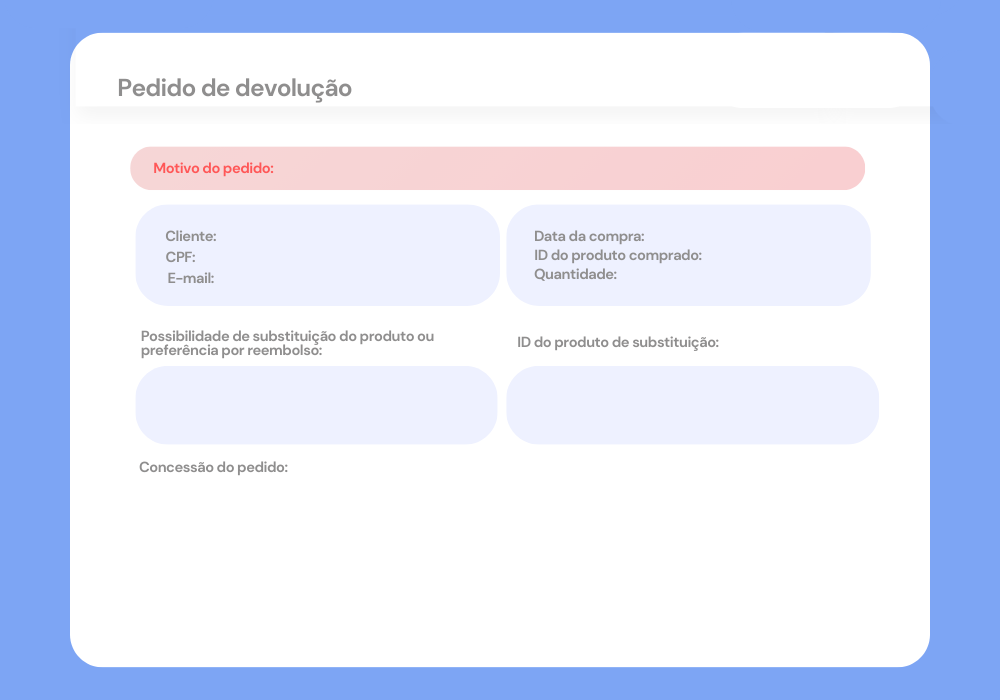
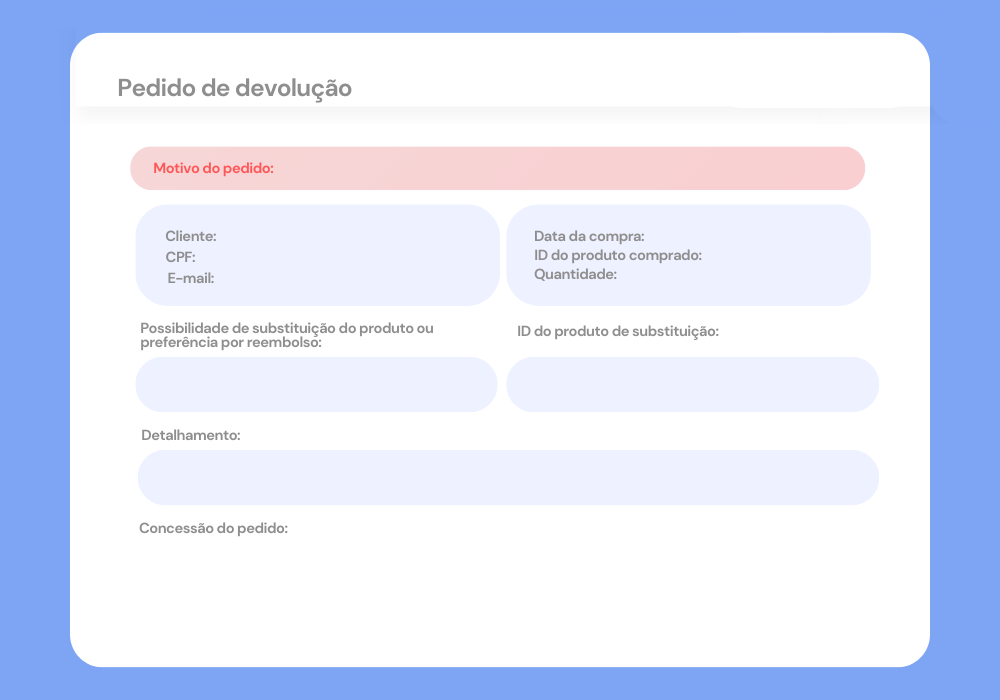
Empresa concede ou nega devolução: feita.

diff --git a/controller/ControllerGeral.java b/controller/ControllerGeral.java
@@ -336,7 +336,19 @@ public class ControllerGeral implements Initializable {
     private RadioButton opcaoDevolucaoSubsituicao;
 
     @FXML
+    private RadioButton opcaoDevolucaoNegar;
+
+    @FXML
     private Button botaoDevolucaoConcedidaEnviada;
+
+    @FXML
+    private TextArea detalhamentoDevolucaoTextArea;
+
+    @FXML
+    private ImageView sucessoConcederDevolucao;
+
+    @FXML
+    private ImageView negacaoConcederDevolucao;
 
     ClienteController clienteController = new ClienteController();
     EmpresaController empresaController = new EmpresaController();
@@ -1052,11 +1064,16 @@ public class ControllerGeral implements Initializable {
 
         opcaoDevolucaoReembolso.setVisible(true);
         opcaoDevolucaoSubsituicao.setVisible(true);
+        opcaoDevolucaoNegar.setVisible(true);
+        opcaoDevolucaoNegar.toFront();
         opcaoDevolucaoReembolso.toFront();
         opcaoDevolucaoSubsituicao.toFront();
 
         botaoDevolucaoConcedidaEnviada.setVisible(true);
         botaoDevolucaoConcedidaEnviada.toFront();
+
+        detalhamentoDevolucaoTextArea.setVisible(true);
+        detalhamentoDevolucaoTextArea.toFront();
 
         esconderElementosDentroDoLogin();
 
@@ -1072,17 +1089,19 @@ public class ControllerGeral implements Initializable {
         idProdutoDevolucaoLabel.setText("" + devolucao.getProdutoId());
         quantidadeProdutoDevolucaoLabel.setText("" + devolucao.getQuantidade());
 
-        substituicaoReembolsoDevolucaoTextArea.setText(devolucao.getJusticativa());
+        substituicaoReembolsoDevolucaoTextArea.setText(devolucao.getJustificativa());
         IDSubstituicaoDevolucaoTextArea.setText(String.valueOf(devolucao.getIdSubstituicao()));
+        detalhamentoDevolucaoTextArea.setText("" + devolucao.getDescricao());
 
         logOutSymbol.setVisible(false);
 
         botaoDevolucaoConcedidaEnviada.setOnAction(event -> {
-            if (opcaoDevolucaoReembolso.isSelected() && opcaoDevolucaoSubsituicao.isSelected()) {
+            if (opcaoDevolucaoReembolso.isSelected() && opcaoDevolucaoSubsituicao.isSelected()
+                    && opcaoDevolucaoNegar.isSelected()) {
                 Alert alert = new Alert(Alert.AlertType.ERROR);
                 alert.setTitle("Erro");
                 alert.setHeaderText(null);
-                alert.setContentText("Por favor, selecione apenas uma opção: Reembolso ou Substituição.");
+                alert.setContentText("Por favor, selecione apenas uma opção: Negacao, Reembolso ou Substituicao.");
                 alert.showAndWait();
             } else if (opcaoDevolucaoReembolso.isSelected()) {
                 devolucao.setStatus(StatusDevolucao.APROVADO);
@@ -1091,7 +1110,7 @@ public class ControllerGeral implements Initializable {
                 if (empresa != null) {
                     empresa.atualizarDevolucao(devolucao);
                     limparECamposDevolucao();
-                    fadeOutTransition(sucessoEnvioReclamacao);
+                    fadeOutTransition(sucessoConcederDevolucao);
                     concederDevolucaoBackground.setVisible(false);
                     mostrarHomeEmpresa();
                 }
@@ -1102,7 +1121,18 @@ public class ControllerGeral implements Initializable {
                 if (empresa != null) {
                     empresa.atualizarDevolucao(devolucao);
                     limparECamposDevolucao();
-                    fadeOutTransition(sucessoEnvioReclamacao);
+                    fadeOutTransition(sucessoConcederDevolucao);
+                    concederDevolucaoBackground.setVisible(false);
+                    mostrarHomeEmpresa();
+                }
+            } else if (opcaoDevolucaoNegar.isSelected()) {
+                devolucao.setStatus(StatusDevolucao.NEGADO);
+                System.out.println("Opção Negação selecionada.");
+                Empresa empresa = Empresa.buscarEmpresaPorId(devolucao.getEmpresaId());
+                if (empresa != null) {
+                    empresa.atualizarDevolucao(devolucao);
+                    limparECamposDevolucao();
+                    fadeOutTransition(negacaoConcederDevolucao);
                     concederDevolucaoBackground.setVisible(false);
                     mostrarHomeEmpresa();
                 }
@@ -1341,6 +1371,9 @@ public class ControllerGeral implements Initializable {
     }
 
     private void limparECamposDevolucao() {
+        detalhamentoDevolucaoTextArea.setVisible(false);
+        detalhamentoDevolucaoTextArea.setText("");
+        opcaoDevolucaoNegar.setVisible(false);
         motivoDevolucaoLabel.setText("");
         nomeClienteDevolucaoLabel.setText("");
         cpfClienteDevolucaoLabel.setText("");
@@ -1363,6 +1396,9 @@ public class ControllerGeral implements Initializable {
         opcaoDevolucaoReembolso.setVisible(false);
         opcaoDevolucaoSubsituicao.setVisible(false);
         botaoDevolucaoConcedidaEnviada.setVisible(false);
+        opcaoDevolucaoNegar.setSelected(false);
+        opcaoDevolucaoReembolso.setSelected(false);
+        opcaoDevolucaoSubsituicao.setSelected(false);
     }
 
     @FXML
@@ -1539,8 +1575,10 @@ public class ControllerGeral implements Initializable {
         emailClienteDevolucaoLabel.setVisible(false);
         dataCompraDevolucaoLabel.setVisible(false);
         idProdutoDevolucaoLabel.setVisible(false);
+        opcaoDevolucaoNegar.setVisible(false);
         quantidadeProdutoDevolucaoLabel.setVisible(false);
         substituicaoReembolsoDevolucaoTextArea.setVisible(false);
+        detalhamentoDevolucaoTextArea.setVisible(false);
         IDSubstituicaoDevolucaoTextArea.setVisible(false);
         opcaoDevolucaoReembolso.setVisible(false);
         opcaoDevolucaoSubsituicao.setVisible(false);
@@ -1678,6 +1716,8 @@ public class ControllerGeral implements Initializable {
         fadeInBackground(clienteLoginBackground);
         campoLoginClienteEmail.setVisible(true);
         campoLoginClienteSenha.setVisible(true);
+        campoLoginClienteEmail.setText("");
+        campoLoginClienteSenha.setText("");
         botaoLoginCliente.setVisible(true);
         esconderElementosDentroDoLogin();
     }
@@ -1687,6 +1727,8 @@ public class ControllerGeral implements Initializable {
 
         campoLoginEmpresaEmail.setVisible(true);
         campoLoginEmpresaSenha.setVisible(true);
+        campoLoginEmpresaEmail.setText("");
+        campoLoginEmpresaSenha.setText("");
         jumpingBackLoginEmpresa.setVisible(true);
         jumpingBackLoginEmpresa.toFront();
         botaoLoginEmpresa.setVisible(true);

diff --git a/model/Devolucao.java b/model/Devolucao.java
@@ -43,11 +43,11 @@ public class Devolucao {
         return clienteId;
     }
 
-    public String getJusticativa() {
+    public String getJustificativa() {
         return justicativa;
     }
 
-    public void setJusticativa(String justicativa) {
+    public void setJustificativa(String justicativa) {
         this.justicativa = justicativa;
     }
 
